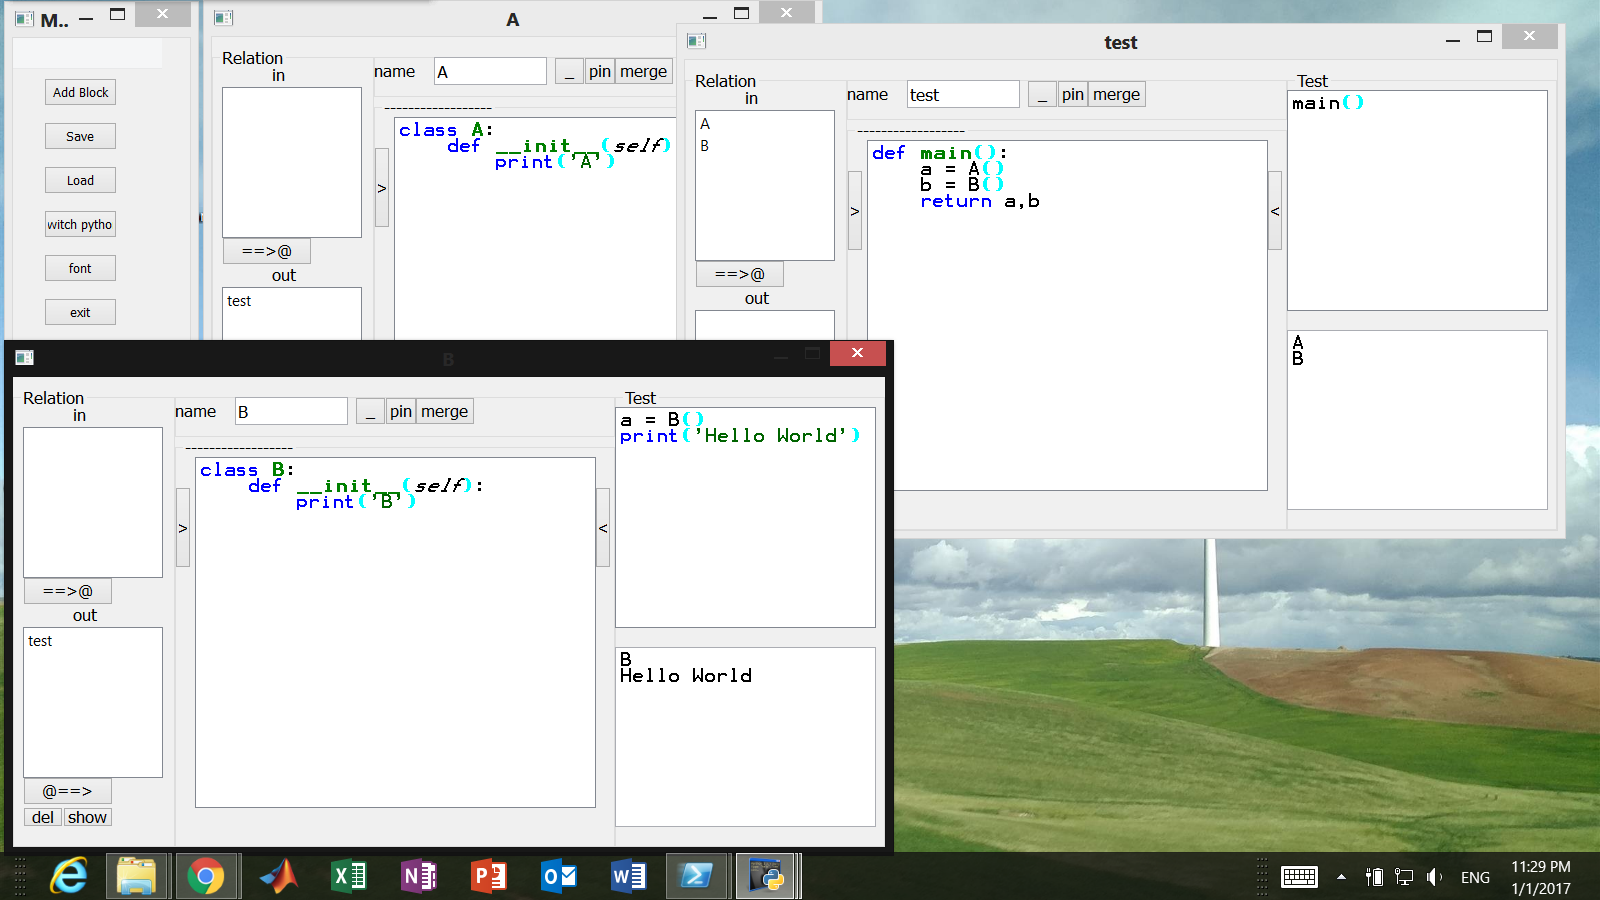
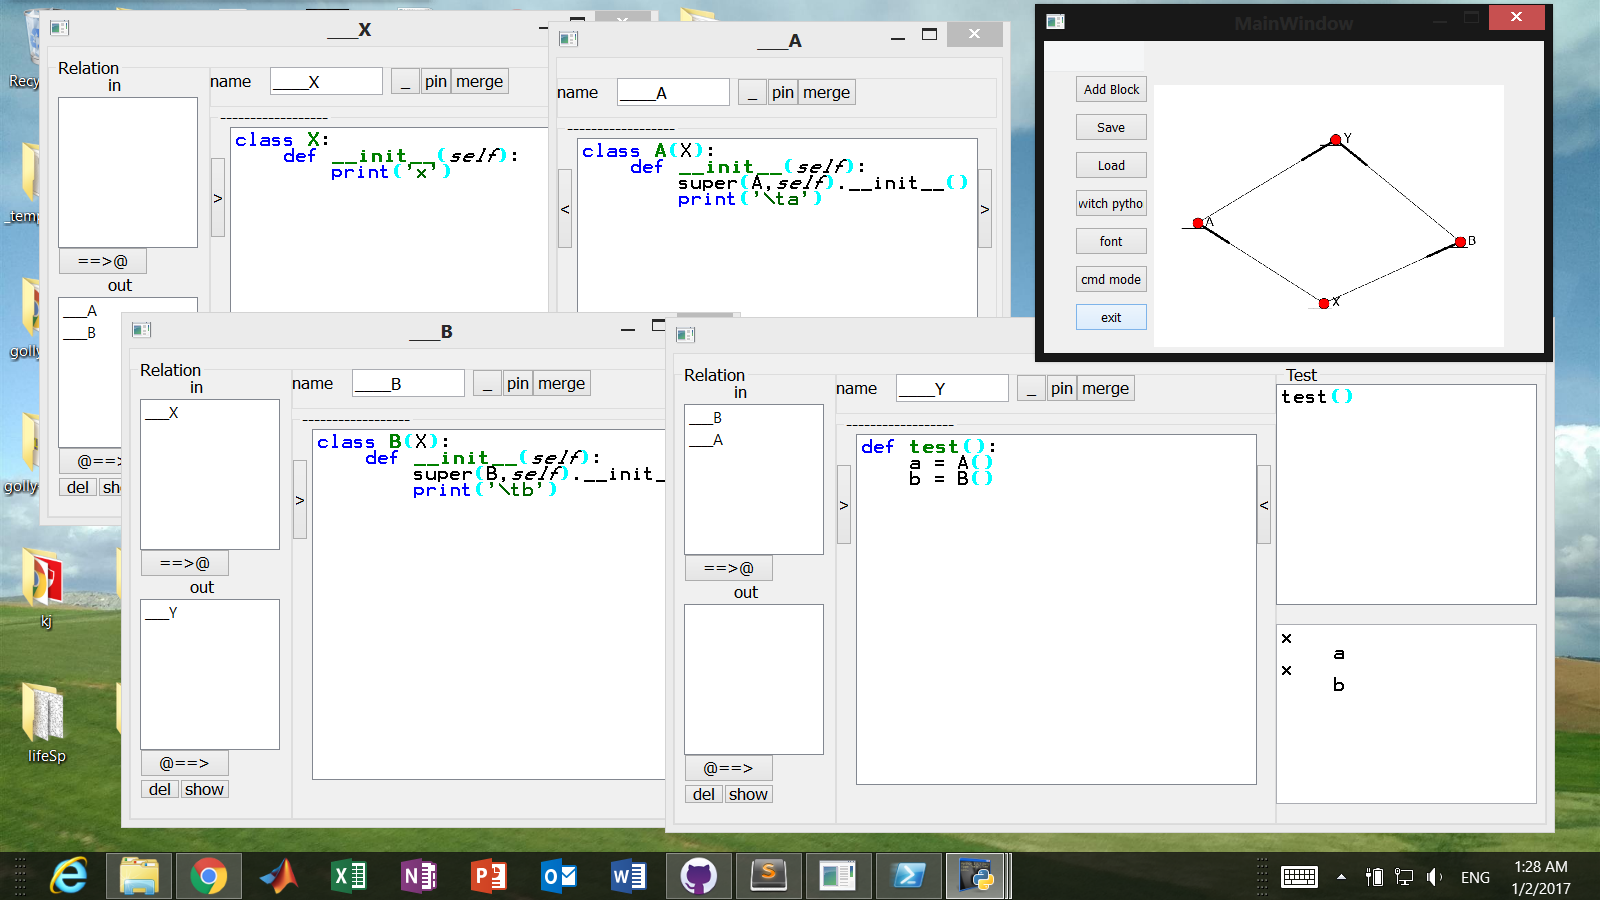
structure
draw structure of blocks

diff --git a/pyzzle.py b/pyzzle.py
@@ -8,6 +8,7 @@
 
 from PyQt4 import QtCore, QtGui
 from pyblock import *
+import sys
 try:
     _fromUtf8 = QtCore.QString.fromUtf8
 except AttributeError:
@@ -24,7 +25,7 @@ except AttributeError:
 class Ui_MainWindow(object):
     def setupUi(self, MainWindow):
         MainWindow.setObjectName(_fromUtf8("MainWindow"))
-        MainWindow.resize(149, 403)
+        MainWindow.resize(500, 400)
         self.centralwidget = QtGui.QWidget(MainWindow)
         self.centralwidget.setObjectName(_fromUtf8("centralwidget"))
         self.verticalLayoutWidget = QtGui.QWidget(self.centralwidget)
@@ -44,14 +45,32 @@ class Ui_MainWindow(object):
         self.bt_sp = QtGui.QPushButton(self.verticalLayoutWidget)
         self.bt_sp.setObjectName(_fromUtf8("bt_sp"))
         self.verticalLayout.addWidget(self.bt_sp)
+
         self.bt_font = QtGui.QPushButton(self.verticalLayoutWidget)
         self.bt_font.setObjectName(_fromUtf8("bt_font"))
         self.verticalLayout.addWidget(self.bt_font)
+
+        self.bt_cmd = QtGui.QPushButton(self.verticalLayoutWidget)
+        self.bt_cmd.setObjectName(_fromUtf8("bt_cmd"))
+        self.verticalLayout.addWidget(self.bt_cmd)
+
+        #self.bt_G = QtGui.QPushButton(self.verticalLayoutWidget)
+        #self.bt_G.setObjectName(_fromUtf8("bt_G"))
+        #self.verticalLayout.addWidget(self.bt_G)
+
+
+        self.currentStructure = QtGui.QLabel(MainWindow)
+        self.showCurrentGraph()
+        #self.pixmap = QtGui.QPixmap('currentStructure.png').scaled(350,350,QtCore.Qt.KeepAspectRatio)
+        #self.currentStructure.setPixmap(self.pixmap)
+        self.currentStructure.setGeometry(110,0,350,350)
+
+
         self.bt_exit = QtGui.QPushButton(self.verticalLayoutWidget)
         self.bt_exit.setObjectName(_fromUtf8("bt_exit"))
         self.verticalLayout.addWidget(self.bt_exit)
         self.menubar = QtGui.QMenuBar(MainWindow)
-        self.menubar.setGeometry(QtCore.QRect(0, 0, 149, 31))
+        self.menubar.setGeometry(QtCore.QRect(0, 0, 100, 31))
         self.menubar.setObjectName(_fromUtf8("menubar"))
         self.statusbar = QtGui.QStatusBar(MainWindow)
         self.statusbar.setObjectName(_fromUtf8("statusbar"))
@@ -60,6 +79,7 @@ class Ui_MainWindow(object):
         QtCore.QMetaObject.connectSlotsByName(MainWindow)
         QtCore.QObject.connect(self.bt_addBlock,QtCore.SIGNAL(_fromUtf8('clicked()')),self.newPyBlockWindow)
 
+        #QtCore.QObject.connect(self.bt_G,QtCore.SIGNAL(_fromUtf8('clicked()')),self.showCurrentGraph)
     def retranslateUi(self, MainWindow):
         MainWindow.setWindowTitle(_translate("MainWindow", "MainWindow", None))
         self.bt_addBlock.setText(_translate("MainWindow", "Add Block", None))
@@ -67,17 +87,24 @@ class Ui_MainWindow(object):
         self.bt_ld.setText(_translate("MainWindow", "Load", None))
         self.bt_sp.setText(_translate("MainWindow", "switch python", None))
         self.bt_font.setText(_translate("MainWindow", "font", None))
+        self.bt_cmd.setText(_translate("MainWindow","cmd mode",None))
+        #self.bt_G.setText(_translate("MainWindow","show graph",None))
         self.bt_exit.setText(_translate("MainWindow", "exit", None))
 
     def newPyBlockWindow(self):
         PY_block = QtGui.QWidget()
-        ui = Ui_PY_block()
-        ui.setMainWindow(self)
+        ui = Ui_PY_block(self)
+        #ui.setMainWindow(self)
         ui.setupUi(PY_block)
         PY_block.show()
         global allWindow
         allWindow.append((ui,PY_block))
-import sys
+    def showCurrentGraph(self):
+        getGraph()
+        self.pixmap = QtGui.QPixmap('currentStructure.png').scaled(350,350,QtCore.Qt.KeepAspectRatio)
+        self.currentStructure.setPixmap(self.pixmap)
+
+
 if __name__ == '__main__':
     app = QtGui.QApplication(sys.argv)
     Pyzzle = QtGui.QWidget()

diff --git a/pyblock.py b/pyblock.py
@@ -62,7 +62,8 @@ class PY_TEST_Edit(QtGui.QPlainTextEdit):
         self.NL = False
 
 class Ui_PY_block(object):
-    def __init__(self):
+    def __init__(self,mainWindow):
+        self.mainWindow = mainWindow
         self.relationSize = (162,460)
         self.inpSize = (440,410)
         self.testSize = (270,460)
@@ -75,6 +76,7 @@ class Ui_PY_block(object):
             ini+=1
         self.bName = x+str(ini)
         addNode(self)
+        mainWindow.showCurrentGraph()
         allName.append(self.bName)
     def setMainWindow(self,mainWindow):
         self.mainWindow = mainWindow
@@ -347,6 +349,7 @@ class Ui_PY_block(object):
         for i in range(self.linkedOut.count()):
             name2node[self.linkedOut.item(i).text()].reName(fname,self.bName)
         nodeRename(fname,self.bName)
+        self.mainWindow.showCurrentGraph()
     def linkToRequest(self):
         global linkObj,linkTarget
         overwriteWarning = False
@@ -356,6 +359,7 @@ class Ui_PY_block(object):
             linkObj = self
         else:
             addEdge(self,linkTarget)
+            self.mainWindow.showCurrentGraph()
             self.f_linkOut(linkTarget)
             linkTarget.f_linkIn(self)
             linkTarget = None
@@ -366,10 +370,11 @@ class Ui_PY_block(object):
         overwriteWarning = False
         if linkTarget != None:
             overwriteWarning = True
-        if linkTarget == None:
+        if linkObj == None:
             linkTarget = self
         else:
             addEdge(linkObj,self)
+            self.mainWindow.showCurrentGraph()
             self.f_linkIn(linkObj)
             linkObj.f_linkOut(self)
             linkObj = None
@@ -407,6 +412,7 @@ class Ui_PY_block(object):
         except:
             delEdge(tdNode,self)
         self.toDel = None
+        self.mainWindow.showCurrentGraph()
     def reName(self,fname,tname):
         for i in range(self.linkedIn.count()):
             if self.linkedIn.item(i).text() == fname:

diff --git a/linkstructure.py b/linkstructure.py
@@ -1,8 +1,6 @@
 import sys
-try:
-	sys.path.append('C:\\Program Files\\Anaconda3\\lib\\site-packages')
-except:
-	pass
+sys.path.append('C:\\Program Files\\Anaconda3\\lib\\site-packages')
+import matplotlib.pyplot as plt
 import networkx as nx
 name2node = {}
 G = nx.DiGraph()
@@ -53,18 +51,16 @@ def getDep(node):
 			res.append(x)
 	res = [name2node[x] for x in res]
 	return res
-pltEnabled = True
-try:
-	import matplotlib.pyplot as plt
-except:
-	pltEnabled = False
 def getGraph():
-	if not pltEnabled:
-		return 'plt not enabled'
-	pos = nx.spring_layout(G)
-	nx.draw_networkx_nodes(G,pos)
-	nx.draw_networkx_edges(G,pos)
-	nx.draw_networkx_labels(G,pos)
+	plt.clf()
+	pos = nx.spring_layout(G,scale = 0.3)
+	nx.draw(G,pos,arrows = True,with_labels = True,font_size = 20)
+	#nx.draw_networkx_nodes(G,pos)
+	#nx.draw_networkx_edges(G,pos)
+	#nx.draw_networkx_labels(G,pos)
+
+	plt.axis('off')
+	plt.grid(True)
 	plt.savefig('currentStructure.png')
 	return ''
 class test:

diff --git a/test.py b/test.py
@@ -1,5 +1,15 @@
-class B:
+class X:
     def __init__(self):
-        print('B')
-a = B()
-print('Hello World')
+        print('x')
+class A(X):
+    def __init__(self):
+        super(A,self).__init__()
+        print('\ta')
+class B(X):
+    def __init__(self):
+        super(B,self).__init__()
+        print('\tb')
+def test():
+    a = A()
+    b = B()
+test()
